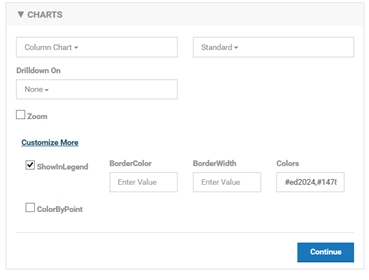
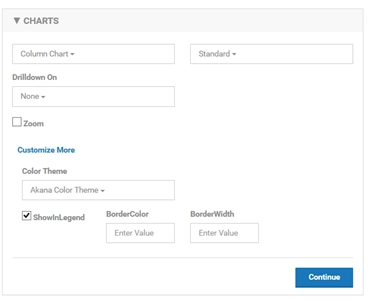
AM-527 Add Tony's edits

diff --git a/ev/envision_reference/env_create_chart.md b/ev/envision_reference/env_create_chart.md
@@ -205,11 +205,21 @@ The rectangular area then becomes the complete view of the chart as seen below.
 
 #### <a id="chart-options"></a>Chart Options
 
-Each chart type and variation may have specific options. These options are also listed in [Envision Appendix](../envision_reference/env_appendix.html) and can be accessed in the user interface by selecting the **Customize More** link. 
+##### <a id="customize-more"></a>Customize More Link
+
+The *Customize More* link expands the section to show more advanced options for the chart and options that may be specific to the type and subtype of the chart selected. These options are also listed in the [Envision Appendix](../envision_reference/env_appendix.html). The following illustrates these options for the Standard Column Chart.  
 
 The following illustrates these options for the Standard Column Chart.  
 
 ![Envision](images/env_creating_charts12.jpg "Standard Column Chart Options")
+
+##### <a id="color-theme"></a>Color Theme
+
+The *Color Theme* is available for all chart types. A color theme is a group of colors that will be used to draw the data series on the chart. The themes can be experimented with using the *Preview* function.
+
+The *Show In Legend* option is also available for all chart types. When selected each data series will be listed in a legend for the chart.
+
+![Envision](images/env_creating_charts35.jpg "Color Theme")
 
 <a href="#top">back to top</a>
 
@@ -363,7 +373,7 @@ Then by selecting any of the Low Top bars the Merchant Sales chart replaces the 
 
 ![Envision](images/env_creating_charts32.jpg "xxx")
 
-The Merchant Sales chart is passed the Order Date filter from the Style Sales chart so the time frame remains the same. The selected style, Low Top in this example, is passed to the Merchant Sales chart filtering the data series to just the selected style. This results in data series for each of the merchants but limited to the Low Top style.
+The Merchant Sales chart is passed the Order Date filter from the Style Sales chart so the time frame remains the same. The selected style, Low Top in this example, is passed to the Merchant Sales chart filtering the data series to just the selected style. This results in data series for each of the merchants but limited to the Low Top style. Note however that drilling down on a data series is only available when a single dimension is selected in the data series section of the chart.
 
 In addition to the ability to drill down from one chart to another, there is a drill down option that allows you to easily build a chart that will drill down based on time. This can be done from the Merchant Sales chart. Open the CHARTS section and select the X-AXIS drill down option.
 
